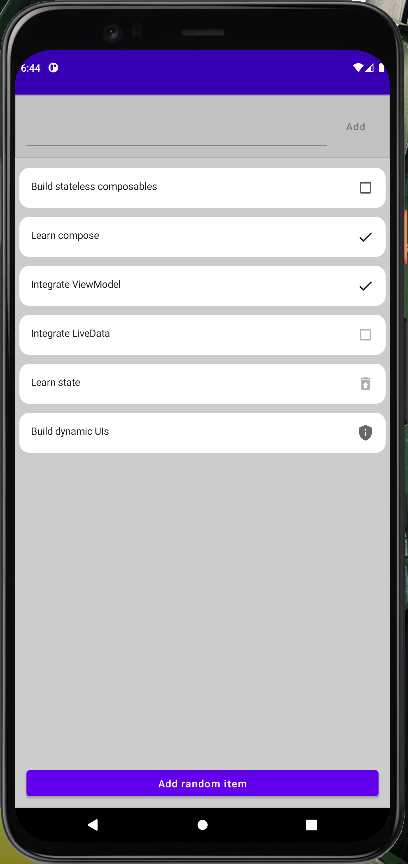
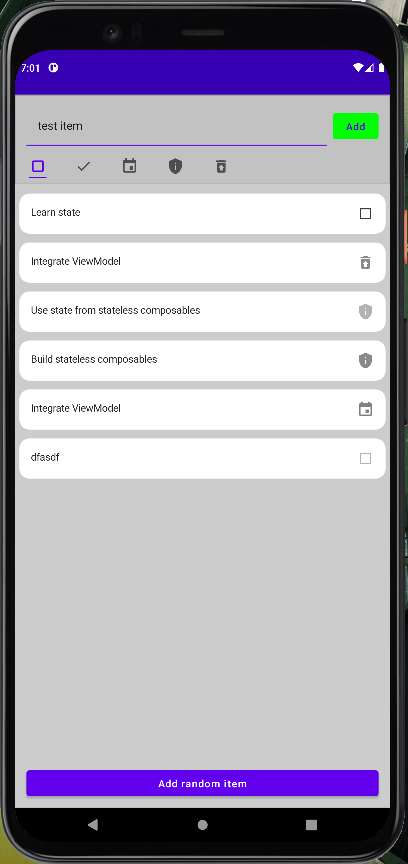
Minor UI update

diff --git a/start/src/main/java/com/codelabs/state/todo/TodoScreen.kt b/start/src/main/java/com/codelabs/state/todo/TodoScreen.kt
@@ -23,10 +23,7 @@ import androidx.compose.foundation.layout.*
 import androidx.compose.foundation.lazy.LazyColumn
 import androidx.compose.foundation.lazy.items
 import androidx.compose.foundation.shape.RoundedCornerShape
-import androidx.compose.material.Button
-import androidx.compose.material.Icon
-import androidx.compose.material.LocalContentColor
-import androidx.compose.material.Text
+import androidx.compose.material.*
 import androidx.compose.runtime.Composable
 import androidx.compose.runtime.mutableStateOf
 import androidx.compose.runtime.remember
@@ -41,6 +38,7 @@ import androidx.compose.ui.unit.TextUnit
 import androidx.compose.ui.unit.dp
 import androidx.compose.ui.unit.sp
 import com.codelabs.state.util.generateRandomTodoItem
+import com.google.android.material.color.MaterialColors
 import java.time.format.TextStyle
 import kotlin.random.Random
 
@@ -70,7 +68,9 @@ fun TodoScreen(
                 TodoRow(
                     todo = it,
                     onItemClicked = { onRemoveItem(it) },
-                    modifier = Modifier.fillParentMaxWidth().padding(vertical = 6.dp, horizontal = 6.dp)
+                    modifier = Modifier
+                        .fillParentMaxWidth()
+                        .padding(vertical = 6.dp, horizontal = 6.dp)
                 )
             }
         }
@@ -80,7 +80,7 @@ fun TodoScreen(
             onClick = { onAddItem(generateRandomTodoItem()) },
             modifier = Modifier
                 .padding(16.dp)
-                .fillMaxWidth(),
+                .fillMaxWidth()
         ) {
             Text("Add random item")
         }
@@ -136,7 +136,7 @@ fun TodoInputTextField(text: String, onTextChange: (String) -> Unit, modifier: M
 @Composable
 fun TodoItemInput(onItemComplete: (TodoItem) -> Unit) {
     val (text, setText) = remember { mutableStateOf("") }
-    val (icon, setIcon) = remember { mutableStateOf(TodoIcon.Default)}
+    val (icon, setIcon) = remember { mutableStateOf(TodoIcon.Default) }
     val iconsVisible = text.isNotBlank()
     val submit = {
         onItemComplete(TodoItem(text, icon))
@@ -150,7 +150,8 @@ fun TodoItemInput(onItemComplete: (TodoItem) -> Unit) {
         onIconChange = setIcon,
         submit = submit,
         iconsVisible = iconsVisible
-    )}
+    )
+}
 
 @Composable
 fun TodoItemInput(
@@ -178,7 +179,9 @@ fun TodoItemInput(
             TodoEditButton(
                 onClick = submit, // pass the submit callback to TodoEditButton
                 text = "Add",
-                modifier = Modifier.align(Alignment.CenterVertically),
+                modifier = Modifier
+                    .align(Alignment.CenterVertically)
+                    .background(Color.Green, RoundedCornerShape(size = 4.dp)),
                 enabled = text.isNotBlank()
             )
         }
